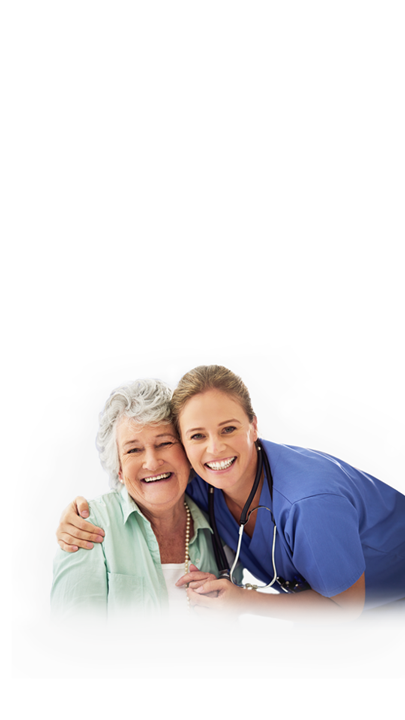
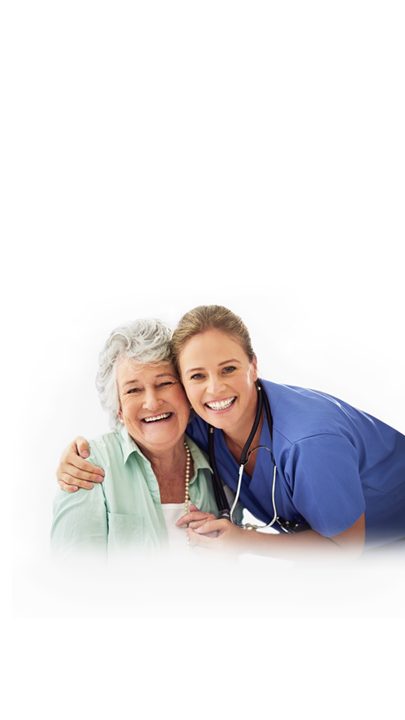
header background image

Changed region(s): [[0.1185, 0.3972, 1.0, 0.8861]]

diff --git a/src/styles.css b/src/styles.css
@@ -62,7 +62,6 @@
 
 .header-container {
     width: 100%;
-    min-height: 60rem;
     padding: 6rem;
     background-image: url(./public/assets/images/bg_header_leve.png);
     background-repeat: no-repeat;
@@ -70,6 +69,8 @@
     background-size: cover;
     display: flex;
     flex-direction: row;
+    align-items: center;
+    justify-content: center;
 }
 .header-container > .header-section {
     padding: 1rem;
@@ -129,12 +130,16 @@
     .header-container {
       background-image: url(./public/assets/images/bg_header_mobile.png);  
       width: 100%;  
-      padding: 2rem;    
+      padding: 2rem;
+      flex-direction: column;
+      align-items: center;
+      justify-content: center;    
     }
     .header-container > .header-section {
       padding: 0;
       margin-left: 0;
       align-items: center;
+      
       
     }
 
@@ -150,7 +155,7 @@
       margin-bottom: .5rem;
     }
     .header-container > .header-section > .space {
-      height: 20rem;
+      height: 25rem;
     }    
 }
 
